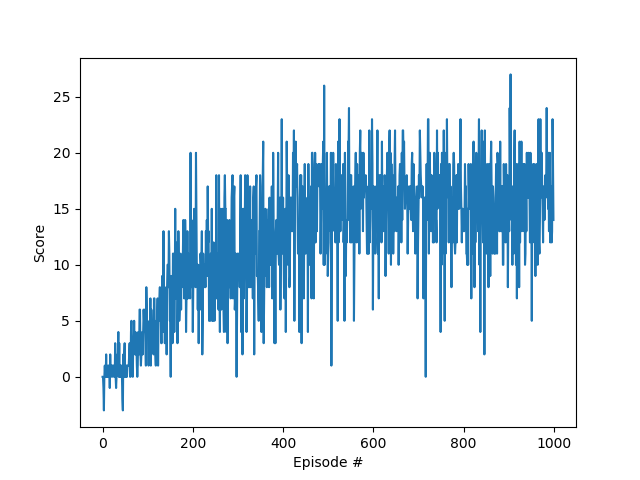
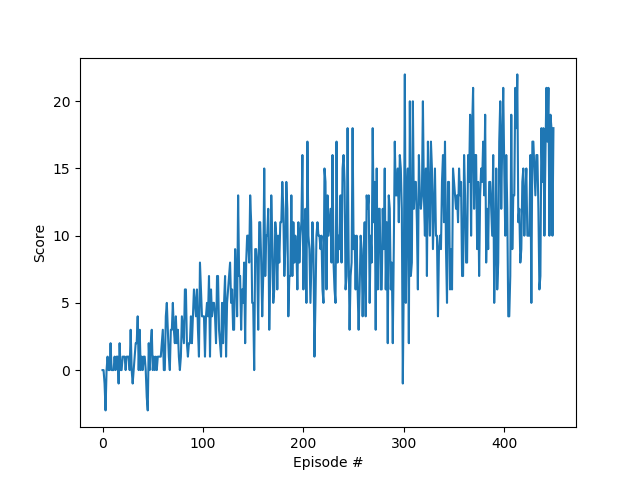
Updated DQN Readme

diff --git a/DQN/test.py b/DQN/test.py
@@ -11,25 +11,32 @@ env = UnityEnvironment(file_name="Banana_Windows_x86_64/Banana.exe")
 brain_name = env.brain_names[0]
 brain = env.brains[brain_name]
 
-# Reset the environment
-env_info = env.reset(train_mode=False)[brain_name]
-
-score = 0                                          # Initialize the score
+env_info = env.reset(train_mode=False)[brain_name] # Reset the environment
 state = env_info.vector_observations[0]            # Initialize the state
-agent = Agent(state_size=len(state), action_size=brain.vector_action_space_size, seed=1)
-agent.qnetwork_local.load_state_dict(torch.load('best.pth'))
-while True:
-    action = int(agent.act(state))
-    env_info = env.step(action)[brain_name]        # Send the action to the environment
-    next_state = env_info.vector_observations[0]   # Get the next state
-    reward = env_info.rewards[0]                   # Get the reward
-    done = env_info.local_done[0]                  # See if episode has finished
-    score += reward                                # Update the score
-    state = next_state                             # Update the state
-    if done:                                       # Exit loop if episode finished
-        break
+
+def run():
+    global env
+    score = 0                                          # Initialize the score
     
-print("Score: {}".format(score))
+    env_info = env.reset(train_mode=False)[brain_name] # Reset the environment
+    state = env_info.vector_observations[0]            # Initialize the state
+
+    while True:
+        action = int(agent.act(state))
+        env_info = env.step(action)[brain_name]        # Send the action to the environment
+        next_state = env_info.vector_observations[0]   # Get the next state
+        reward = env_info.rewards[0]                   # Get the reward
+        done = env_info.local_done[0]                  # See if episode has finished
+        score += reward                                # Update the score
+        state = next_state                             # Update the state
+        if done:                                       # Exit loop if episode finished
+            break
+
+agent = Agent(state_size=len(state), action_size=brain.vector_action_space_size, seed=1)   
+run()
+
+agent.qnetwork_local.load_state_dict(torch.load('agent.pth'))
+run()
 
 # Close the environment
 env.close()

diff --git a/DQN/train.py b/DQN/train.py
@@ -71,8 +71,8 @@ def dqn(n_episodes=2000, max_t=1000, eps_start=1.0, eps_end=0.01, eps_decay=0.99
             print('\rEpisode {}\tAverage Score: {:.2f}'.format(i_episode, np.mean(scores_window)))
         if score >= max_score:
             max_score = score
-            torch.save(agent.qnetwork_local.state_dict(), 'best.pth')
-        if np.mean(scores_window) > 20:
+            torch.save(agent.qnetwork_local.state_dict(), 'agent.pth')
+        if np.mean(scores_window) > 13:
             break
     return scores
 
@@ -84,26 +84,8 @@ ax = fig.add_subplot(111)
 plt.plot(np.arange(len(scores)), scores)
 plt.ylabel('Score')
 plt.xlabel('Episode #')
-fig.savefig("TrainingResults.png")
+fig.savefig("images/training.png")
 plt.show()
-
-# Load and run best entity
-env_info = env.reset(train_mode=False)[brain_name] # reset the environment
-state = env_info.vector_observations[0]            # get the current state
-score = 0                                          # initialize the score
-agent.qnetwork_local.load_state_dict(torch.load('best.pth'))
-while True:
-    action = int(agent.act(state))
-    env_info = env.step(action)[brain_name]        # send the action to the environment
-    next_state = env_info.vector_observations[0]   # get the next state
-    reward = env_info.rewards[0]                   # get the reward
-    done = env_info.local_done[0]                  # see if episode has finished
-    score += reward                                # update the score
-    state = next_state                             # roll over the state to next time step
-    if done:                                       # exit loop if episode finished
-        break
-    
-print("Score: {}".format(score))
 
 # Close the environment.
 env.close()

diff --git a/MADDPG/train.py b/MADDPG/train.py
@@ -109,6 +109,7 @@ ax = fig.add_subplot(111)
 plt.plot(np.arange(1, len(scores)+1), scores)
 plt.ylabel('Score')
 plt.xlabel('Episode #')
+fig.savefig("images/training.png")
 plt.show()
 
 # Close the environment.

diff --git a/DDPG/train.py b/DDPG/train.py
@@ -69,6 +69,7 @@ ax = fig.add_subplot(111)
 plt.plot(np.arange(1, len(scores)+1), scores)
 plt.ylabel('Score')
 plt.xlabel('Episode #')
+fig.savefig("images/training.png")
 plt.show()
 
 # Close the environment.

diff --git a/DQN/README.md b/DQN/README.md
@@ -1,0 +1,19 @@
+# Project Details
+This project uses a Deep Q-Network (DQN) to create a controller that collects yellow bananas in a virtual environment. 
+
+# Environment
+ A reward of +1 is provided for collecting a yellow banana, and a reward of -1 is provided for collecting a blue banana. Thus, the goal of the agent is to collect as many yellow bananas as possible while avoiding blue bananas. The environment is considered solved when the 100 most recent rewards averages at least 13.
+
+# Learning Algorithm
+There are 4 discrete actions for the entity (left, right, forward and backward) and 37 continuous observations for the state. The DQN has a fully connected architecture with 37 inputs, 4 outputs and two hidden layers each with 64 neurons. The ReLU activation function is used in all layers with a learning rate of .0005. The DQN algorithm runs 1000 episodes for a maximum of 1000 time steps and uses an epsilon greedy policy with an initial value of 1 a minimum value of .01 and a decay rate of .99.
+
+![Hyperparameters](images/hyper.png)
+
+# Reward History
+
+![Training Profile](images/training.png)
+
+
+# Improvements
+The design could be modified to use a convolutional network and accept the pixels as input rather than using the 37 state variables. 
+A replay buffer could be incorporated to reduce the temporal dependence. 
